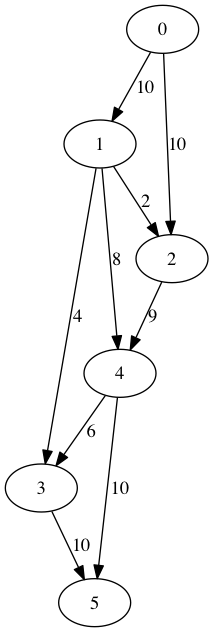
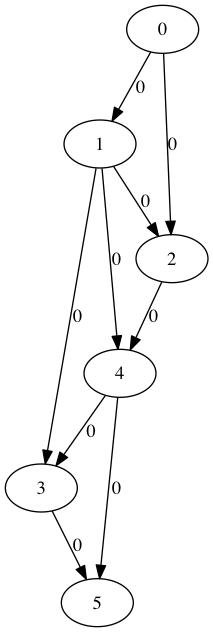
small fixes , main working

diff --git a/maxflow/dinic.py b/maxflow/dinic.py
@@ -6,6 +6,7 @@ from graph import display_graph
 import random
 import numpy as np
 from Queue import Queue
+from copy import deepcopy
 
 INF = float('inf')  # use double inf
 
@@ -30,19 +31,17 @@ class DinicImageSequence(ImageSequence):
     def __init__(self, graph, nvertices, nedges, source, sink):
         ImageSequence.__init__(self)
 
-
         # Self.graph is initialized to graph with all weights as zero
-        self.graph = [[] for i in range(v)]
-        for i in range(v):
+        self.graph = [[] for i in range(nvertices)]
+        for i in range(nvertices):
             for j in range(len(graph[i])):
                 temp1, temp2 = graph[i][j]
                 self.graph[i].append((temp1, 0))
 
-
         # Stores maximum capcities
-        self.graph_capacity = graph   
+        self.graph_capacity = graph
 
-        #Store edges,vertices,source and sink vertex
+        # Store edges,vertices,source and sink vertex
         self.edges = nedges
         self.vertices = nvertices
         self.source = source
@@ -51,7 +50,7 @@ class DinicImageSequence(ImageSequence):
         self.flow = 0
         self.done = False
         # status=1 when blocking flow is in progress
-        self.status = 0  
+        self.status = 0
         self.blocking_flow = None
         print "dinic with", graph
         # set init image
@@ -62,8 +61,9 @@ class DinicImageSequence(ImageSequence):
         return mpimg.imread('dinic_init.png')
 
     def find_level_graph(self):
+        self.find_residual()
         self.level_graph = [[] for _ in self.graph]
-        for i, l in enumerate(self.graph):
+        for i, l in enumerate(self.residual_graph):
             for j, c in l:
                 if self.dist[j] - self.dist[i] == 1:
                     self.level_graph[i].append((j, c))
@@ -78,6 +78,7 @@ class DinicImageSequence(ImageSequence):
         else:
             self.dist = find_distances(self.graph, self.source)
             self.find_level_graph()
+
             if self.dist[self.sink] == INF:
                 self.done = True
                 print 'completed dinics'
@@ -87,13 +88,13 @@ class DinicImageSequence(ImageSequence):
                 print 'finding blocking flow'
                 self.blocking_flow = BlockingFlowImageSequence(self.level_graph, self.vertices, self.edges, self.dist, self.source, self.sink)
                 self.status = 1
-                # update self.flow, self.graph(?)
+                self.update_flow()
                 return self.blocking_flow.init_image()
 
     def complete(self):
         return self.done
 
-    def residual(self):
+    def find_residual(self):
 
         vert = self.vertices
 
@@ -114,7 +115,7 @@ class DinicImageSequence(ImageSequence):
 
         for i in range(vert):
             for j in range(len(self.graph_capacity[i])):
-                temp1, temp2 = wt_graph[i][j]
+                temp1, temp2 = self.graph_capacity[i][j]
                 cap_adj_matrix[i, temp1] = temp2
 
         # Find residual graph
@@ -130,19 +131,23 @@ class DinicImageSequence(ImageSequence):
                 if res_adj_matrix[j, i] != 0:
                     res_graph[j].append((i, res_adj_matrix[j, i]))
 
-        return res_graph,res_adj_matrix
+        self.residual_graph = res_graph
+        return res_graph, res_adj_matrix
 
+    def update_flow(self):
+        """
+        Update self.graph etc, after getting a blocking_flow
+        """
 
     def dinic_algo():
 
         # TODO alter function for using in visualization
         vert = self.vertices
-        
-        
+
         adj_matrix = (np.zeros((vert, vert), dtype=np.int))
         cap_adj_matrix = np.zeros((vert, vert), dtype=np.int)
 
-        #Initialize adjacency matrices for capacity and current graph
+        # Initialize adjacency matrices for capacity and current graph
         for i in range(vert):
             for j in range(len(self.graph[i])):
                 temp1, temp2 = self.graph[i][j]
@@ -157,9 +162,9 @@ class DinicImageSequence(ImageSequence):
             """
              TODO :     why is level graph being calculate on self.graph(suggestion : create self.res_graph ??
                         New class for residual graph ??
-                        
+
                         create a self.adj_matrix object instead of recreating the object?
-            """           
+            """
 # loop start:
             # keep a copy of capacity and original graph
 
@@ -168,25 +173,13 @@ class DinicImageSequence(ImageSequence):
             # Computer blocking flow
 
             # Subtract the weights of graph with blocking flow graph
-            # ?? Use adjacency_matrix for above? (since will be much faster) 
-            # also create adjacency list since it is require for graphviz 
-            
+            # ?? Use adjacency_matrix for above? (since will be much faster)
+            # also create adjacency list since it is require for graphviz
+
             # if no change in flow after update exit loop(i.e. no blocking flow
             # loop again(i.e)
-
 
             block = BlockingFlowImageSequence(self.level_graph, self.vertices, self.edges, dist, self.source, self.sink)
 
             block_graph = block.blocking_flow()
             block_graph_adj = block.get_block_flow_adj()
-            
-
-
-
-            
-
-
-        
-
-
-

diff --git a/maxflow/block_flow.py b/maxflow/block_flow.py
@@ -59,7 +59,7 @@ class BlockingFlowImageSequence(ImageSequence):
 
     def path_found(self):
         print "path found"
-    
+
     def get_block_flow_adj(self):
         return self.block_adj_mat
 
@@ -106,7 +106,7 @@ class BlockingFlowImageSequence(ImageSequence):
                 break
 
             path = self.find_path(graph_sets, adj_matrix, final_graph_adj)
-            
+
             # Check if this is correct
             if path == None:
                 continue

diff --git a/main.py b/main.py
@@ -42,4 +42,3 @@ def bfs_test():
 # bfs_test()
 dinic_test()
 # residual_test()
-
